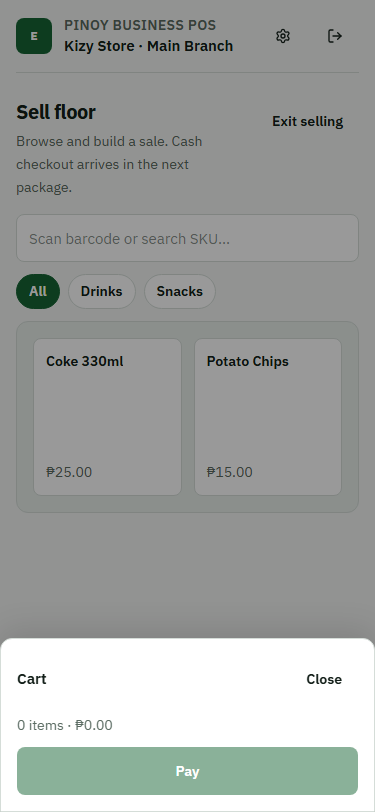
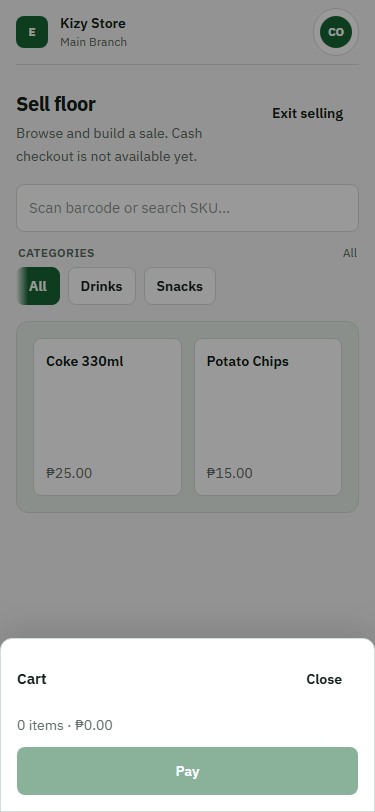
fix(pos-react): make sell-floor categories a swipe strip

diff --git a/src/Products/PinoyBusinessPOS/ExItS.PinoyBusinessPOS.Client/src/features/sell/SellCategoryFilter.tsx b/src/Products/PinoyBusinessPOS/ExItS.PinoyBusinessPOS.Client/src/features/sell/SellCategoryFilter.tsx
@@ -1,0 +1,98 @@
+import { cn } from "@/lib/cn";
+
+export type SellCategoryOption = {
+  categoryId: string;
+  name: string;
+};
+
+type SellCategoryFilterProps = {
+  categories: SellCategoryOption[];
+  activeCategoryId: string;
+  allLabel: string;
+  listLabel: string;
+  onSelect: (categoryId: string) => void;
+};
+
+export function SellCategoryFilter({
+  categories,
+  activeCategoryId,
+  allLabel,
+  listLabel,
+  onSelect,
+}: SellCategoryFilterProps) {
+  const activeName =
+    activeCategoryId === "all"
+      ? allLabel
+      : (categories.find((category) => category.categoryId === activeCategoryId)?.name ?? allLabel);
+
+  return (
+    <div className="flex min-w-0 flex-col gap-1.5">
+      <div className="flex min-w-0 items-baseline justify-between gap-2 px-0.5">
+        <p className="m-0 text-[length:var(--exits-text-xs)] font-semibold tracking-wide uppercase text-muted">
+          {listLabel}
+        </p>
+        <p
+          className="m-0 min-w-0 truncate text-[length:var(--exits-text-xs)] text-muted"
+          data-testid="sell-category-active"
+          aria-live="polite"
+        >
+          {activeName}
+        </p>
+      </div>
+
+      <div className="sell-categories relative min-w-0">
+        <div
+          data-testid="sell-categories"
+          className="sell-categories-track flex gap-2 overflow-x-auto overscroll-x-contain pb-1"
+          role="list"
+          aria-label={listLabel}
+        >
+          <CategoryChip
+            pressed={activeCategoryId === "all"}
+            onClick={() => onSelect("all")}
+            label={allLabel}
+          />
+          {categories.map((category) => (
+            <CategoryChip
+              key={category.categoryId}
+              testId={`sell-category-${category.categoryId}`}
+              pressed={activeCategoryId === category.categoryId}
+              onClick={() => onSelect(category.categoryId)}
+              label={category.name}
+            />
+          ))}
+        </div>
+      </div>
+    </div>
+  );
+}
+
+function CategoryChip({
+  label,
+  pressed,
+  onClick,
+  testId,
+}: {
+  label: string;
+  pressed: boolean;
+  onClick: () => void;
+  testId?: string;
+}) {
+  return (
+    <button
+      type="button"
+      role="listitem"
+      data-testid={testId}
+      className={cn(
+        "sell-category-chip shrink-0 snap-start whitespace-nowrap rounded-[var(--exits-radius-md)] border px-3 py-2 text-[length:var(--exits-text-sm)] font-semibold transition-[background-color,border-color,color] duration-[var(--exits-motion-fast)] focus-visible:outline-none focus-visible:ring-2 focus-visible:ring-ring",
+        pressed
+          ? "border-primary bg-primary text-primary-foreground"
+          : "border-border bg-surface text-foreground hover:bg-[var(--exits-surface-muted)]",
+      )}
+      aria-pressed={pressed}
+      onClick={onClick}
+    >
+      {label}
+    </button>
+  );
+}

diff --git a/src/Products/PinoyBusinessPOS/ExItS.PinoyBusinessPOS.Client/src/features/sell/SellFloorPage.tsx b/src/Products/PinoyBusinessPOS/ExItS.PinoyBusinessPOS.Client/src/features/sell/SellFloorPage.tsx
@@ -12,6 +12,7 @@ import { useSessionCart } from "@/cart/SessionCartProvider";
 import { Button } from "@/components/ui/button";
 import { PageHeader } from "@/components/exits/PageHeader";
 import { SellCartPanel } from "@/features/sell/SellCartPanel";
+import { SellCategoryFilter } from "@/features/sell/SellCategoryFilter";
 import { useI18n } from "@/i18n/I18nProvider";
 import { formatCartSummary, formatPeso } from "@/lib/format-money";
 import { cn } from "@/lib/cn";
@@ -221,45 +222,13 @@ export function SellFloorPage() {
             </p>
           ) : null}
 
-          <div
-            data-testid="sell-categories"
-            className="flex flex-wrap gap-2"
-            role="list"
-            aria-label={t("sell.categoriesLabel")}
-          >
-            <button
-              type="button"
-              role="listitem"
-              className={cn(
-                "rounded-full border px-3 py-1.5 text-[length:var(--exits-text-sm)] font-semibold transition-colors",
-                activeCategory === "all"
-                  ? "border-primary bg-primary text-primary-foreground"
-                  : "border-border bg-surface text-foreground hover:bg-[var(--exits-surface-muted)]",
-              )}
-              aria-pressed={activeCategory === "all"}
-              onClick={() => setActiveCategory("all")}
-            >
-              {t("sell.categoryAll")}
-            </button>
-            {(categoriesQuery.data?.items ?? []).map((category) => (
-              <button
-                key={category.categoryId}
-                type="button"
-                role="listitem"
-                data-testid={`sell-category-${category.categoryId}`}
-                className={cn(
-                  "rounded-full border px-3 py-1.5 text-[length:var(--exits-text-sm)] font-semibold transition-colors",
-                  activeCategory === category.categoryId
-                    ? "border-primary bg-primary text-primary-foreground"
-                    : "border-border bg-surface text-foreground hover:bg-[var(--exits-surface-muted)]",
-                )}
-                aria-pressed={activeCategory === category.categoryId}
-                onClick={() => setActiveCategory(category.categoryId)}
-              >
-                {category.name}
-              </button>
-            ))}
-          </div>
+          <SellCategoryFilter
+            categories={categoriesQuery.data?.items ?? []}
+            activeCategoryId={activeCategory}
+            allLabel={t("sell.categoryAll")}
+            listLabel={t("sell.categoriesLabel")}
+            onSelect={setActiveCategory}
+          />
 
           <div
             data-testid="sell-products"

diff --git a/src/Products/PinoyBusinessPOS/ExItS.PinoyBusinessPOS.Client/src/styles/globals.css b/src/Products/PinoyBusinessPOS/ExItS.PinoyBusinessPOS.Client/src/styles/globals.css
@@ -183,3 +183,35 @@ body {
     display: none !important;
   }
 }
+
+/* Sell-floor categories: one horizontal strip (swipe) instead of wrapped chip clouds. */
+.sell-categories-track {
+  scroll-snap-type: x proximity;
+  -webkit-overflow-scrolling: touch;
+  scrollbar-width: thin;
+}
+
+.sell-categories-track::-webkit-scrollbar {
+  height: 4px;
+}
+
+.sell-categories-track::-webkit-scrollbar-thumb {
+  background: color-mix(in srgb, var(--exits-border) 80%, transparent);
+  border-radius: 999px;
+}
+
+.sell-categories {
+  mask-image: linear-gradient(
+    to right,
+    transparent,
+    #000 0.75rem,
+    #000 calc(100% - 0.75rem),
+    transparent
+  );
+}
+
+@supports not (mask-image: linear-gradient(to right, #000, #000)) {
+  .sell-categories {
+    mask-image: none;
+  }
+}

diff --git a/src/Products/PinoyBusinessPOS/ExItS.PinoyBusinessPOS.Client/src/features/sell/sell-floor.test.tsx b/src/Products/PinoyBusinessPOS/ExItS.PinoyBusinessPOS.Client/src/features/sell/sell-floor.test.tsx
@@ -137,6 +137,7 @@ describe("SellFloorPage", () => {
 
     expect(screen.getByTestId("sell-search")).toBeInTheDocument();
     expect(screen.getByTestId("sell-categories")).toBeInTheDocument();
+    expect(screen.getByTestId("sell-category-active")).toHaveTextContent("All");
     expect(screen.getByTestId("sell-products")).toBeInTheDocument();
     expect(screen.getByTestId("sell-cart-landscape")).toBeInTheDocument();
     expect(screen.getByTestId("sell-cart-bar")).toBeInTheDocument();
